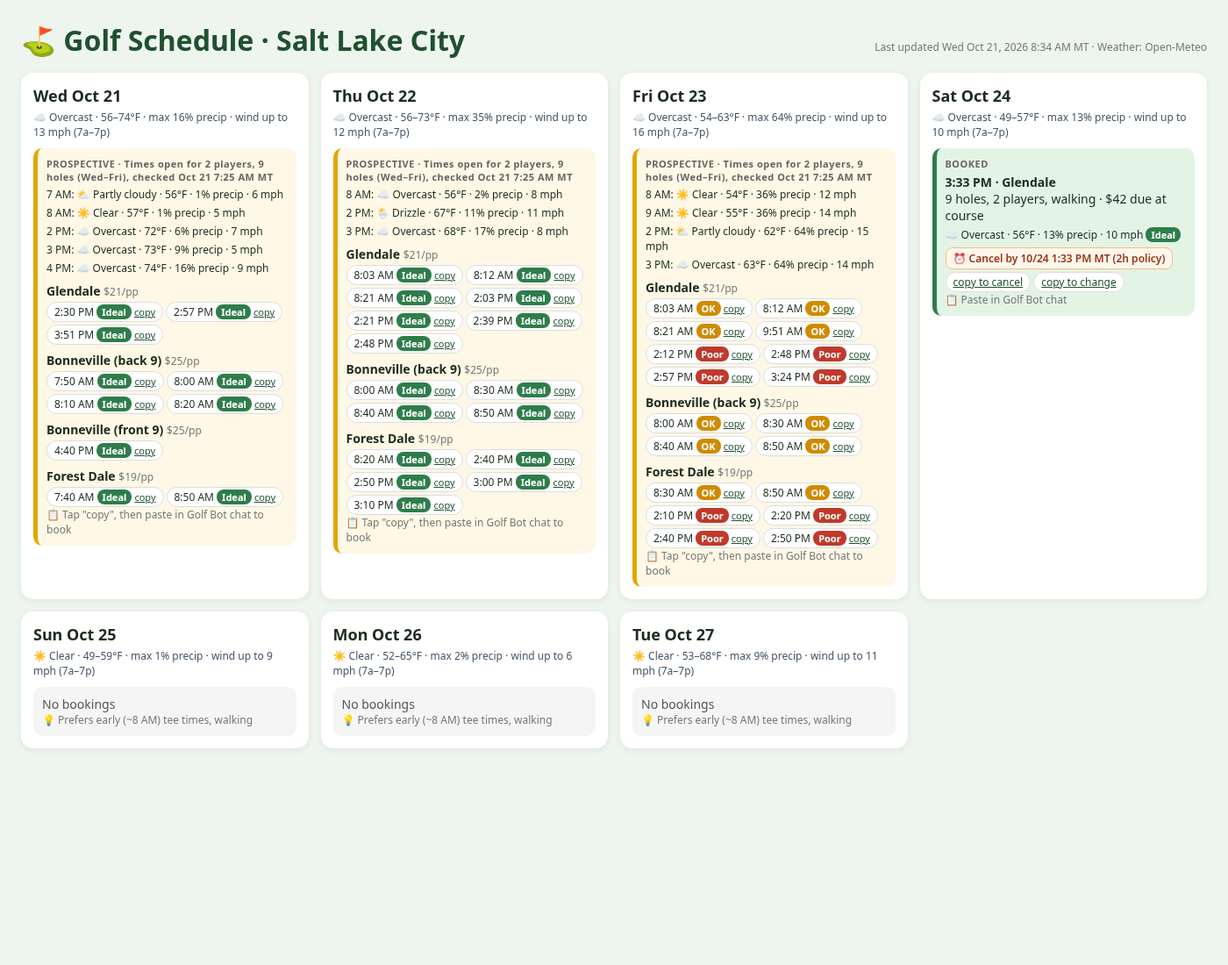
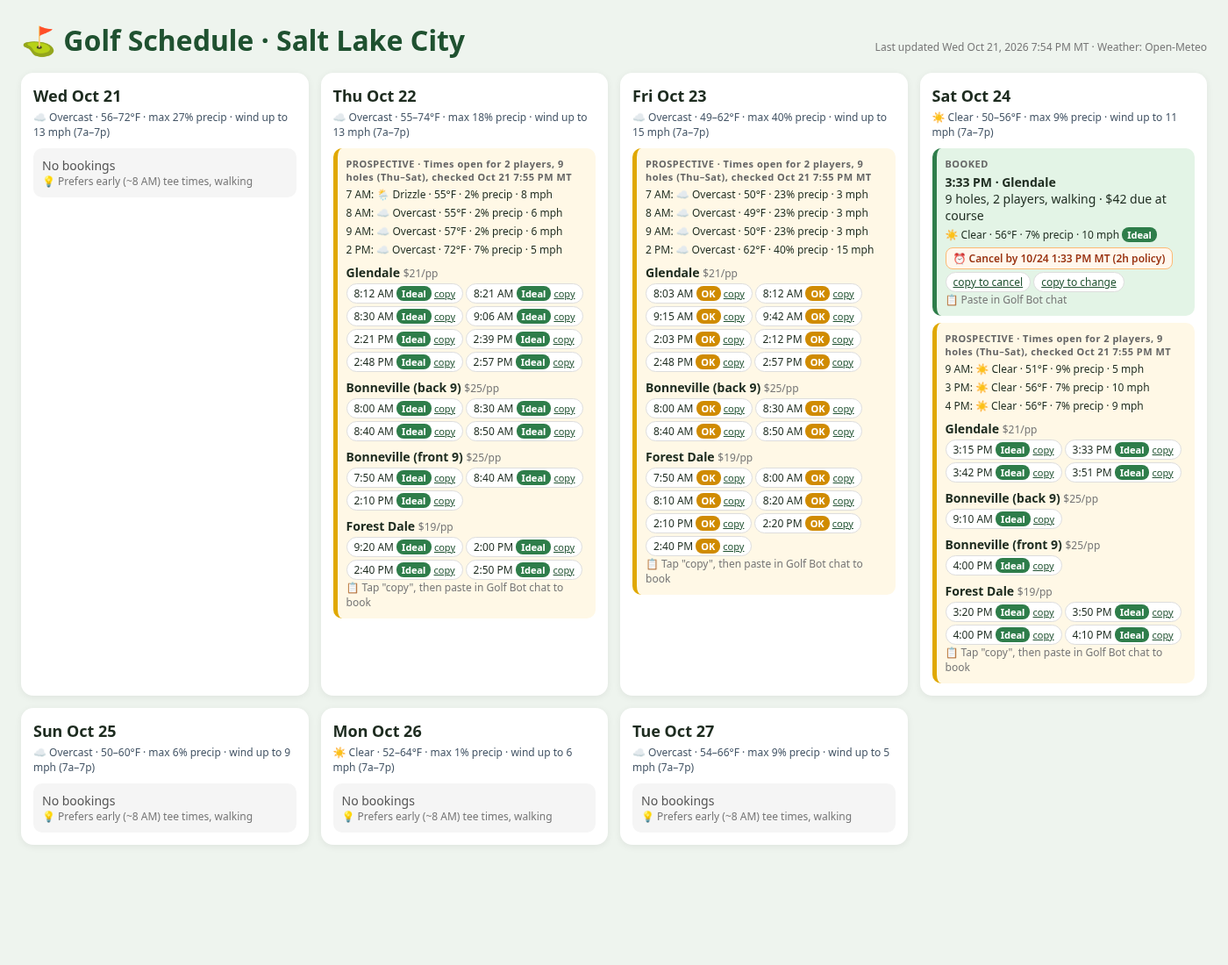
Update schedule 2026-10-21 19:54 MT

diff --git a/index.html b/index.html
@@ -9,5 +9,5 @@ h1{margin:0;color:#1f5130} .top{display:flex;justify-content:space-between;align
 .muted{color:#777;font-size:12px} .wx{font-size:12px;margin-top:4px} .prow{margin-top:8px}
 .cancelby{margin-top:6px;font-size:12px;font-weight:600;color:#9a3412;background:#fff7ed;border:1px solid #fdba74;border-radius:8px;padding:3px 8px;display:inline-block} .copy{font-size:11px;color:#1f5130} .chip{display:inline-block;background:#fff;border:1px solid #ddd;border-radius:14px;padding:2px 8px;margin:3px 3px 0 0;font-size:12px}
 .badge{border-radius:8px;padding:1px 6px;font-size:11px;font-weight:700;color:#fff} .ideal{background:#2e7d4a} .ok{background:#d08b00} .poor{background:#c0392b} .na{background:#888}
-</style></head><body><div class="top"><h1>⛳ Golf Schedule · Salt Lake City</h1><div class="muted">Last updated Wed Oct 21, 2026 8:34 AM MT · Weather: Open-Meteo</div></div>
-<div class="grid"><section class="day"><h2>Wed Oct 21</h2><div class="sum">☁ Overcast · 56–74°F · max 16% precip · wind up to 13 mph (7a–7p)</div><div class="slot prospect"><div class="tag">PROSPECTIVE · Times open for 2 players, 9 holes (Wed–Fri), checked Oct 21 7:25 AM MT</div><div class="wx">7 AM: ⛅ Partly cloudy · 56°F · 1% precip · 6 mph</div><div class="wx">8 AM: ☀ Clear · 57°F · 1% precip · 5 mph</div><div class="wx">2 PM: ☁ Overcast · 72°F · 6% precip · 7 mph</div><div class="wx">3 PM: ☁ Overcast · 73°F · 9% precip · 5 mph</div><div class="wx">4 PM: ☁ Overcast · 74°F · 16% precip · 9 mph</div><div class="prow"><b>Glendale</b> <span class="muted">$21/pp</span><div><span class="chip">2:30 PM <span class="badge ideal" title="☁ Overcast · 72°F · 6% precip · 7 mph">Ideal</span> <a href="#" class="copy" data-msg="Book Glendale Wed Oct 21 2:30 PM" onclick="navigator.clipboard.writeText(this.dataset.msg);this.textContent='copied!';return false">copy</a></span><span class="chip">2:57 PM <span class="badge ideal" title="☁ Overcast · 72°F · 6% precip · 7 mph">Ideal</span> <a href="#" class="copy" data-msg="Book Glendale Wed Oct 21 2:57 PM" onclick="navigator.clipboard.writeText(this.dataset.msg);this.textContent='copied!';return false">copy</a></span><span class="chip">3:51 PM <span class="badge ideal" title="☁ Overcast · 73°F · 9% precip · 5 mph">Ideal</span> <a href="#" class="copy" data-msg="Book Glendale Wed Oct 21 3:51 PM" onclick="navigator.clipboard.writeText(this.dataset.msg);this.textContent='copied!';return false">copy</a></span></div></div><div class="prow"><b>Bonneville (back 9)</b> <span class="muted">$25/pp</span><div><span class="chip">7:50 AM <span class="badge ideal" title="⛅ Partly cloudy · 56°F · 1% precip · 6 mph">Ideal</span> <a href="#" class="copy" data-msg="Book Bonneville (back 9) Wed Oct 21 7:50 AM" onclick="navigator.clipboard.writeText(this.dataset.msg);this.textContent='copied!';return false">copy</a></span><span class="chip">8:00 AM <span class="badge ideal" title="☀ Clear · 57°F · 1% precip · 5 mph">Ideal</span> <a href="#" class="copy" data-msg="Book Bonneville (back 9) Wed Oct 21 8:00 AM" onclick="navigator.clipboard.writeText(this.dataset.msg);this.textContent='copied!';return false">copy</a></span><span class="chip">8:10 AM <span class="badge ideal" title="☀ Clear · 57°F · 1% precip · 5 mph">Ideal</span> <a href="#" class="copy" data-msg="Book Bonneville (back 9) Wed Oct 21 8:10 AM" onclick="navigator.clipboard.writeText(this.dataset.msg);this.textContent='copied!';return false">copy</a></span><span class="chip">8:20 AM <span class="badge ideal" title="☀ Clear · 57°F · 1% precip · 5 mph">Ideal</span> <a href="#" class="copy" data-msg="Book Bonneville (back 9) Wed Oct 21 8:20 AM" onclick="navigator.clipboard.writeText(this.dataset.msg);this.textContent='copied!';return false">copy</a></span></div></div><div class="prow"><b>Bonneville (front 9)</b> <span class="muted">$25/pp</span><div><span class="chip">4:40 PM <span class="badge ideal" title="☁ Overcast · 74°F · 16% precip · 9 mph">Ideal</span> <a href="#" class="copy" data-msg="Book Bonneville (front 9) Wed Oct 21 4:40 PM" onclick="navigator.clipboard.writeText(this.dataset.msg);this.textContent='copied!';return false">copy</a></span></div></div><div class="prow"><b>Forest Dale</b> <span class="muted">$19/pp</span><div><span class="chip">7:40 AM <span class="badge ideal" title="⛅ Partly cloudy · 56°F · 1% precip · 6 mph">Ideal</span> <a href="#" class="copy" data-msg="Book Forest Dale Wed Oct 21 7:40 AM" onclick="navigator.clipboard.writeText(this.dataset.msg);this.textContent='copied!';return false">copy</a></span><span class="chip">8:50 AM <span class="badge ideal" title="☀ Clear · 57°F · 1% precip · 5 mph">Ideal</span> <a href="#" class="copy" data-msg="Book Forest Dale Wed Oct 21 8:50 AM" onclick="navigator.clipboard.writeText(this.dataset.msg);this.textContent='copied!';return false">copy</a></span></div></div><div class="muted">📋 Tap "copy", then paste in Golf Bot chat to book</div></div></section><section class="day"><h2>Thu Oct 22</h2><div class="sum">☁ Overcast · 56–73°F · max 35% precip · wind up to 12 mph (7a–7p)</div><div class="slot prospect"><div class="tag">PROSPECTIVE · Times open for 2 players, 9 holes (Wed–Fri), checked Oct 21 7:25 AM MT</div><div class="wx">8 AM: ☁ Overcast · 56°F · 2% precip · 8 mph</div><div class="wx">2 PM: 🌦 Drizzle · 67°F · 11% precip · 11 mph</div><div class="wx">3 PM: ☁ Overcast · 68°F · 17% precip · 8 mph</div><div class="prow"><b>Glendale</b> <span class="muted">$21/pp</span><div><span class="chip">8:03 AM <span class="badge ideal" title="☁ Overcast · 56°F · 2% precip · 8 mph">Ideal</span> <a href="#" class="copy" data-msg="Book Glendale Thu Oct 22 8:03 AM" onclick="navigator.clipboard.writeText(this.dataset.msg);this.textContent='copied!';return false">copy</a></span><span class="chip">8:12 AM <span class="badge ideal" title="☁ Overcast · 56°F · 2% precip · 8 mph">Ideal</span> <a href="#" class="copy" data-msg="Book Glendale Thu Oct 22 8:12 AM" onclick="navigator.clipboard.writeText(this.dataset.msg);this.textContent='copied!';return false">copy</a></span><span class="chip">8:21 AM <span class="badge ideal" title="☁ Overcast · 56°F · 2% precip · 8 mph">Ideal</span> <a href="#" class="copy" data-msg="Book Glendale Thu Oct 22 8:21 AM" onclick="navigator.clipboard.writeText(this.dataset.msg);this.textContent='copied!';return false">copy</a></span><span class="chip">2:03 PM <span class="badge ideal" title="🌦 Drizzle · 67°F · 11% precip · 11 mph">Ideal</span> <a href="#" class="copy" data-msg="Book Glendale Thu Oct 22 2:03 PM" onclick="navigator.clipboard.writeText(this.dataset.msg);this.textContent='copied!';return false">copy</a></span><span class="chip">2:21 PM <span class="badge ideal" title="🌦 Drizzle · 67°F · 11% precip · 11 mph">Ideal</span> <a href="#" class="copy" data-msg="Book Glendale Thu Oct 22 2:21 PM" onclick="navigator.clipboard.writeText(this.dataset.msg);this.textContent='copied!';return false">copy</a></span><span class="chip">2:39 PM <span class="badge ideal" title="🌦 Drizzle · 67°F · 11% precip · 11 mph">Ideal</span> <a href="#" class="copy" data-msg="Book Glendale Thu Oct 22 2:39 PM" onclick="navigator.clipboard.writeText(this.dataset.msg);this.textContent='copied!';return false">copy</a></span><span class="chip">2:48 PM <span class="badge ideal" title="🌦 Drizzle · 67°F · 11% precip · 11 mph">Ideal</span> <a href="#" class="copy" data-msg="Book Glendale Thu Oct 22 2:48 PM" onclick="navigator.clipboard.writeText(this.dataset.msg);this.textContent='copied!';return false">copy</a></span></div></div><div class="prow"><b>Bonneville (back 9)</b> <span class="muted">$25/pp</span><div><span class="chip">8:00 AM <span class="badge ideal" title="☁ Overcast · 56°F · 2% precip · 8 mph">Ideal</span> <a href="#" class="copy" data-msg="Book Bonneville (back 9) Thu Oct 22 8:00 AM" onclick="navigator.clipboard.writeText(this.dataset.msg);this.textContent='copied!';return false">copy</a></span><span class="chip">8:30 AM <span class="badge ideal" title="☁ Overcast · 56°F · 2% precip · 8 mph">Ideal</span> <a href="#" class="copy" data-msg="Book Bonneville (back 9) Thu Oct 22 8:30 AM" onclick="navigator.clipboard.writeText(this.dataset.msg);this.textContent='copied!';return false">copy</a></span><span class="chip">8:40 AM <span class="badge ideal" title="☁ Overcast · 56°F · 2% precip · 8 mph">Ideal</span> <a href="#" class="copy" data-msg="Book Bonneville (back 9) Thu Oct 22 8:40 AM" onclick="navigator.clipboard.writeText(this.dataset.msg);this.textContent='copied!';return false">copy</a></span><span class="chip">8:50 AM <span class="badge ideal" title="☁ Overcast · 56°F · 2% precip · 8 mph">Ideal</span> <a href="#" class="copy" data-msg="Book Bonneville (back 9) Thu Oct 22 8:50 AM" onclick="navigator.clipboard.writeText(this.dataset.msg);this.textContent='copied!';return false">copy</a></span></div></div><div class="prow"><b>Forest Dale</b> <span class="muted">$19/pp</span><div><span class="chip">8:20 AM <span class="badge ideal" title="☁ Overcast · 56°F · 2% precip · 8 mph">Ideal</span> <a href="#" class="copy" data-msg="Book Forest Dale Thu Oct 22 8:20 AM" onclick="navigator.clipboard.writeText(this.dataset.msg);this.textContent='copied!';return false">copy</a></span><span class="chip">2:40 PM <span class="badge ideal" title="🌦 Drizzle · 67°F · 11% precip · 11 mph">Ideal</span> <a href="#" class="copy" data-msg="Book Forest Dale Thu Oct 22 2:40 PM" onclick="navigator.clipboard.writeText(this.dataset.msg);this.textContent='copied!';return false">copy</a></span><span class="chip">2:50 PM <span class="badge ideal" title="🌦 Drizzle · 67°F · 11% precip · 11 mph">Ideal</span> <a href="#" class="copy" data-msg="Book Forest Dale Thu Oct 22 2:50 PM" onclick="navigator.clipboard.writeText(this.dataset.msg);this.textContent='copied!';return false">copy</a></span><span class="chip">3:00 PM <span class="badge ideal" title="☁ Overcast · 68°F · 17% precip · 8 mph">Ideal</span> <a href="#" class="copy" data-msg="Book Forest Dale Thu Oct 22 3:00 PM" onclick="navigator.clipboard.writeText(this.dataset.msg);this.textContent='copied!';return false">copy</a></span><span class="chip">3:10 PM <span class="badge ideal" title="☁ Overcast · 68°F · 17% precip · 8 mph">Ideal</span> <a href="#" class="copy" data-msg="Book Forest Dale Thu Oct 22 3:10 PM" onclick="navigator.clipboard.writeText(this.dataset.msg);this.textContent='copied!';return false">copy</a></span></div></div><div class="muted">📋 Tap "copy", then paste in Golf Bot chat to book</div></div></section><section class="day"><h2>Fri Oct 23</h2><div class="sum">☁ Overcast · 54–63°F · max 64% precip · wind up to 16 mph (7a–7p)</div><div class="slot prospect"><div class="tag">PROSPECTIVE · Times open for 2 players, 9 holes (Wed–Fri), checked Oct 21 7:25 AM MT</div><div class="wx">8 AM: ☀ Clear · 54°F · 36% precip · 12 mph</div><div class="wx">9 AM: ☀ Clear · 55°F · 36% precip · 14 mph</div><div class="wx">2 PM: ⛅ Partly cloudy · 62°F · 64% precip · 15 mph</div><div class="wx">3 PM: ☁ Overcast · 63°F · 64% precip · 14 mph</div><div class="prow"><b>Glendale</b> <span class="muted">$21/pp</span><div><span class="chip">8:03 AM <span class="badge ok" title="☀ Clear · 54°F · 36% precip · 12 mph">OK</span> <a href="#" class="copy" data-msg="Book Glendale Fri Oct 23 8:03 AM" onclick="navigator.clipboard.writeText(this.dataset.msg);this.textContent='copied!';return false">copy</a></span><span class="chip">8:12 AM <span class="badge ok" title="☀ Clear · 54°F · 36% precip · 12 mph">OK</span> <a href="#" class="copy" data-msg="Book Glendale Fri Oct 23 8:12 AM" onclick="navigator.clipboard.writeText(this.dataset.msg);this.textContent='copied!';return false">copy</a></span><span class="chip">8:21 AM <span class="badge ok" title="☀ Clear · 54°F · 36% precip · 12 mph">OK</span> <a href="#" class="copy" data-msg="Book Glendale Fri Oct 23 8:21 AM" onclick="navigator.clipboard.writeText(this.dataset.msg);this.textContent='copied!';return false">copy</a></span><span class="chip">9:51 AM <span class="badge ok" title="☀ Clear · 55°F · 36% precip · 14 mph">OK</span> <a href="#" class="copy" data-msg="Book Glendale Fri Oct 23 9:51 AM" onclick="navigator.clipboard.writeText(this.dataset.msg);this.textContent='copied!';return false">copy</a></span><span class="chip">2:12 PM <span class="badge poor" title="⛅ Partly cloudy · 62°F · 64% precip · 15 mph">Poor</span> <a href="#" class="copy" data-msg="Book Glendale Fri Oct 23 2:12 PM" onclick="navigator.clipboard.writeText(this.dataset.msg);this.textContent='copied!';return false">copy</a></span><span class="chip">2:48 PM <span class="badge poor" title="⛅ Partly cloudy · 62°F · 64% precip · 15 mph">Poor</span> <a href="#" class="copy" data-msg="Book Glendale Fri Oct 23 2:48 PM" onclick="navigator.clipboard.writeText(this.dataset.msg);this.textContent='copied!';return false">copy</a></span><span class="chip">2:57 PM <span class="badge poor" title="⛅ Partly cloudy · 62°F · 64% precip · 15 mph">Poor</span> <a href="#" class="copy" data-msg="Book Glendale Fri Oct 23 2:57 PM" onclick="navigator.clipboard.writeText(this.dataset.msg);this.textContent='copied!';return false">copy</a></span><span class="chip">3:24 PM <span class="badge poor" title="☁ Overcast · 63°F · 64% precip · 14 mph">Poor</span> <a href="#" class="copy" data-msg="Book Glendale Fri Oct 23 3:24 PM" onclick="navigator.clipboard.writeText(this.dataset.msg);this.textContent='copied!';return false">copy</a></span></div></div><div class="prow"><b>Bonneville (back 9)</b> <span class="muted">$25/pp</span><div><span class="chip">8:00 AM <span class="badge ok" title="☀ Clear · 54°F · 36% precip · 12 mph">OK</span> <a href="#" class="copy" data-msg="Book Bonneville (back 9) Fri Oct 23 8:00 AM" onclick="navigator.clipboard.writeText(this.dataset.msg);this.textContent='copied!';return false">copy</a></span><span class="chip">8:30 AM <span class="badge ok" title="☀ Clear · 54°F · 36% precip · 12 mph">OK</span> <a href="#" class="copy" data-msg="Book Bonneville (back 9) Fri Oct 23 8:30 AM" onclick="navigator.clipboard.writeText(this.dataset.msg);this.textContent='copied!';return false">copy</a></span><span class="chip">8:40 AM <span class="badge ok" title="☀ Clear · 54°F · 36% precip · 12 mph">OK</span> <a href="#" class="copy" data-msg="Book Bonneville (back 9) Fri Oct 23 8:40 AM" onclick="navigator.clipboard.writeText(this.dataset.msg);this.textContent='copied!';return false">copy</a></span><span class="chip">8:50 AM <span class="badge ok" title="☀ Clear · 54°F · 36% precip · 12 mph">OK</span> <a href="#" class="copy" data-msg="Book Bonneville (back 9) Fri Oct 23 8:50 AM" onclick="navigator.clipboard.writeText(this.dataset.msg);this.textContent='copied!';return false">copy</a></span></div></div><div class="prow"><b>Forest Dale</b> <span class="muted">$19/pp</span><div><span class="chip">8:30 AM <span class="badge ok" title="☀ Clear · 54°F · 36% precip · 12 mph">OK</span> <a href="#" class="copy" data-msg="Book Forest Dale Fri Oct 23 8:30 AM" onclick="navigator.clipboard.writeText(this.dataset.msg);this.textContent='copied!';return false">copy</a></span><span class="chip">8:50 AM <span class="badge ok" title="☀ Clear · 54°F · 36% precip · 12 mph">OK</span> <a href="#" class="copy" data-msg="Book Forest Dale Fri Oct 23 8:50 AM" onclick="navigator.clipboard.writeText(this.dataset.msg);this.textContent='copied!';return false">copy</a></span><span class="chip">2:10 PM <span class="badge poor" title="⛅ Partly cloudy · 62°F · 64% precip · 15 mph">Poor</span> <a href="#" class="copy" data-msg="Book Forest Dale Fri Oct 23 2:10 PM" onclick="navigator.clipboard.writeText(this.dataset.msg);this.textContent='copied!';return false">copy</a></span><span class="chip">2:20 PM <span class="badge poor" title="⛅ Partly cloudy · 62°F · 64% precip · 15 mph">Poor</span> <a href="#" class="copy" data-msg="Book Forest Dale Fri Oct 23 2:20 PM" onclick="navigator.clipboard.writeText(this.dataset.msg);this.textContent='copied!';return false">copy</a></span><span class="chip">2:40 PM <span class="badge poor" title="⛅ Partly cloudy · 62°F · 64% precip · 15 mph">Poor</span> <a href="#" class="copy" data-msg="Book Forest Dale Fri Oct 23 2:40 PM" onclick="navigator.clipboard.writeText(this.dataset.msg);this.textContent='copied!';return false">copy</a></span><span class="chip">2:50 PM <span class="badge poor" title="⛅ Partly cloudy · 62°F · 64% precip · 15 mph">Poor</span> <a href="#" class="copy" data-msg="Book Forest Dale Fri Oct 23 2:50 PM" onclick="navigator.clipboard.writeText(this.dataset.msg);this.textContent='copied!';return false">copy</a></span></div></div><div class="muted">📋 Tap "copy", then paste in Golf Bot chat to book</div></div></section><section class="day"><h2>Sat Oct 24</h2><div class="sum">☁ Overcast · 49–57°F · max 13% precip · wind up to 10 mph (7a–7p)</div><div class="slot booked"><div class="tag">BOOKED</div><b>3:33 PM · Glendale</b><div>9 holes, 2 players, walking · $42 due at course</div><div class="wx">☁ Overcast · 56°F · 13% precip · 10 mph <span class="badge ideal">Ideal</span></div><div class="cancelby">⏰ Cancel by 10/24 1:33 PM MT (2h policy)</div><a href="#" class="copy chip" data-msg="Cancel my Glendale tee time Sat Oct 24 3:33 PM" onclick="navigator.clipboard.writeText(this.dataset.msg);this.textContent='copied!';return false">copy to cancel</a><a href="#" class="copy chip" data-msg="Change my Glendale tee time Sat Oct 24 3:33 PM" onclick="navigator.clipboard.writeText(this.dataset.msg);this.textContent='copied!';return false">copy to change</a><div class="muted">📋 Paste in Golf Bot chat</div></div></section><section class="day"><h2>Sun Oct 25</h2><div class="sum">☀ Clear · 49–59°F · max 1% precip · wind up to 9 mph (7a–7p)</div><div class="slot empty">No bookings<div class="muted">💡 Prefers early (~8 AM) tee times, walking</div></div></section><section class="day"><h2>Mon Oct 26</h2><div class="sum">☀ Clear · 52–65°F · max 2% precip · wind up to 6 mph (7a–7p)</div><div class="slot empty">No bookings<div class="muted">💡 Prefers early (~8 AM) tee times, walking</div></div></section><section class="day"><h2>Tue Oct 27</h2><div class="sum">☀ Clear · 53–68°F · max 9% precip · wind up to 11 mph (7a–7p)</div><div class="slot empty">No bookings<div class="muted">💡 Prefers early (~8 AM) tee times, walking</div></div></section></div></body></html>
+</style></head><body><div class="top"><h1>⛳ Golf Schedule · Salt Lake City</h1><div class="muted">Last updated Wed Oct 21, 2026 7:54 PM MT · Weather: Open-Meteo</div></div>
+<div class="grid"><section class="day"><h2>Wed Oct 21</h2><div class="sum">☁ Overcast · 56–72°F · max 27% precip · wind up to 13 mph (7a–7p)</div><div class="slot empty">No bookings<div class="muted">💡 Prefers early (~8 AM) tee times, walking</div></div></section><section class="day"><h2>Thu Oct 22</h2><div class="sum">☁ Overcast · 55–74°F · max 18% precip · wind up to 13 mph (7a–7p)</div><div class="slot prospect"><div class="tag">PROSPECTIVE · Times open for 2 players, 9 holes (Thu–Sat), checked Oct 21 7:55 PM MT</div><div class="wx">7 AM: 🌦 Drizzle · 55°F · 2% precip · 8 mph</div><div class="wx">8 AM: ☁ Overcast · 55°F · 2% precip · 6 mph</div><div class="wx">9 AM: ☁ Overcast · 57°F · 2% precip · 6 mph</div><div class="wx">2 PM: ☁ Overcast · 72°F · 7% precip · 5 mph</div><div class="prow"><b>Glendale</b> <span class="muted">$21/pp</span><div><span class="chip">8:12 AM <span class="badge ideal" title="☁ Overcast · 55°F · 2% precip · 6 mph">Ideal</span> <a href="#" class="copy" data-msg="Book Glendale Thu Oct 22 8:12 AM" onclick="navigator.clipboard.writeText(this.dataset.msg);this.textContent='copied!';return false">copy</a></span><span class="chip">8:21 AM <span class="badge ideal" title="☁ Overcast · 55°F · 2% precip · 6 mph">Ideal</span> <a href="#" class="copy" data-msg="Book Glendale Thu Oct 22 8:21 AM" onclick="navigator.clipboard.writeText(this.dataset.msg);this.textContent='copied!';return false">copy</a></span><span class="chip">8:30 AM <span class="badge ideal" title="☁ Overcast · 55°F · 2% precip · 6 mph">Ideal</span> <a href="#" class="copy" data-msg="Book Glendale Thu Oct 22 8:30 AM" onclick="navigator.clipboard.writeText(this.dataset.msg);this.textContent='copied!';return false">copy</a></span><span class="chip">9:06 AM <span class="badge ideal" title="☁ Overcast · 57°F · 2% precip · 6 mph">Ideal</span> <a href="#" class="copy" data-msg="Book Glendale Thu Oct 22 9:06 AM" onclick="navigator.clipboard.writeText(this.dataset.msg);this.textContent='copied!';return false">copy</a></span><span class="chip">2:21 PM <span class="badge ideal" title="☁ Overcast · 72°F · 7% precip · 5 mph">Ideal</span> <a href="#" class="copy" data-msg="Book Glendale Thu Oct 22 2:21 PM" onclick="navigator.clipboard.writeText(this.dataset.msg);this.textContent='copied!';return false">copy</a></span><span class="chip">2:39 PM <span class="badge ideal" title="☁ Overcast · 72°F · 7% precip · 5 mph">Ideal</span> <a href="#" class="copy" data-msg="Book Glendale Thu Oct 22 2:39 PM" onclick="navigator.clipboard.writeText(this.dataset.msg);this.textContent='copied!';return false">copy</a></span><span class="chip">2:48 PM <span class="badge ideal" title="☁ Overcast · 72°F · 7% precip · 5 mph">Ideal</span> <a href="#" class="copy" data-msg="Book Glendale Thu Oct 22 2:48 PM" onclick="navigator.clipboard.writeText(this.dataset.msg);this.textContent='copied!';return false">copy</a></span><span class="chip">2:57 PM <span class="badge ideal" title="☁ Overcast · 72°F · 7% precip · 5 mph">Ideal</span> <a href="#" class="copy" data-msg="Book Glendale Thu Oct 22 2:57 PM" onclick="navigator.clipboard.writeText(this.dataset.msg);this.textContent='copied!';return false">copy</a></span></div></div><div class="prow"><b>Bonneville (back 9)</b> <span class="muted">$25/pp</span><div><span class="chip">8:00 AM <span class="badge ideal" title="☁ Overcast · 55°F · 2% precip · 6 mph">Ideal</span> <a href="#" class="copy" data-msg="Book Bonneville (back 9) Thu Oct 22 8:00 AM" onclick="navigator.clipboard.writeText(this.dataset.msg);this.textContent='copied!';return false">copy</a></span><span class="chip">8:30 AM <span class="badge ideal" title="☁ Overcast · 55°F · 2% precip · 6 mph">Ideal</span> <a href="#" class="copy" data-msg="Book Bonneville (back 9) Thu Oct 22 8:30 AM" onclick="navigator.clipboard.writeText(this.dataset.msg);this.textContent='copied!';return false">copy</a></span><span class="chip">8:40 AM <span class="badge ideal" title="☁ Overcast · 55°F · 2% precip · 6 mph">Ideal</span> <a href="#" class="copy" data-msg="Book Bonneville (back 9) Thu Oct 22 8:40 AM" onclick="navigator.clipboard.writeText(this.dataset.msg);this.textContent='copied!';return false">copy</a></span><span class="chip">8:50 AM <span class="badge ideal" title="☁ Overcast · 55°F · 2% precip · 6 mph">Ideal</span> <a href="#" class="copy" data-msg="Book Bonneville (back 9) Thu Oct 22 8:50 AM" onclick="navigator.clipboard.writeText(this.dataset.msg);this.textContent='copied!';return false">copy</a></span></div></div><div class="prow"><b>Bonneville (front 9)</b> <span class="muted">$25/pp</span><div><span class="chip">7:50 AM <span class="badge ideal" title="🌦 Drizzle · 55°F · 2% precip · 8 mph">Ideal</span> <a href="#" class="copy" data-msg="Book Bonneville (front 9) Thu Oct 22 7:50 AM" onclick="navigator.clipboard.writeText(this.dataset.msg);this.textContent='copied!';return false">copy</a></span><span class="chip">8:40 AM <span class="badge ideal" title="☁ Overcast · 55°F · 2% precip · 6 mph">Ideal</span> <a href="#" class="copy" data-msg="Book Bonneville (front 9) Thu Oct 22 8:40 AM" onclick="navigator.clipboard.writeText(this.dataset.msg);this.textContent='copied!';return false">copy</a></span><span class="chip">2:10 PM <span class="badge ideal" title="☁ Overcast · 72°F · 7% precip · 5 mph">Ideal</span> <a href="#" class="copy" data-msg="Book Bonneville (front 9) Thu Oct 22 2:10 PM" onclick="navigator.clipboard.writeText(this.dataset.msg);this.textContent='copied!';return false">copy</a></span></div></div><div class="prow"><b>Forest Dale</b> <span class="muted">$19/pp</span><div><span class="chip">9:20 AM <span class="badge ideal" title="☁ Overcast · 57°F · 2% precip · 6 mph">Ideal</span> <a href="#" class="copy" data-msg="Book Forest Dale Thu Oct 22 9:20 AM" onclick="navigator.clipboard.writeText(this.dataset.msg);this.textContent='copied!';return false">copy</a></span><span class="chip">2:00 PM <span class="badge ideal" title="☁ Overcast · 72°F · 7% precip · 5 mph">Ideal</span> <a href="#" class="copy" data-msg="Book Forest Dale Thu Oct 22 2:00 PM" onclick="navigator.clipboard.writeText(this.dataset.msg);this.textContent='copied!';return false">copy</a></span><span class="chip">2:40 PM <span class="badge ideal" title="☁ Overcast · 72°F · 7% precip · 5 mph">Ideal</span> <a href="#" class="copy" data-msg="Book Forest Dale Thu Oct 22 2:40 PM" onclick="navigator.clipboard.writeText(this.dataset.msg);this.textContent='copied!';return false">copy</a></span><span class="chip">2:50 PM <span class="badge ideal" title="☁ Overcast · 72°F · 7% precip · 5 mph">Ideal</span> <a href="#" class="copy" data-msg="Book Forest Dale Thu Oct 22 2:50 PM" onclick="navigator.clipboard.writeText(this.dataset.msg);this.textContent='copied!';return false">copy</a></span></div></div><div class="muted">📋 Tap "copy", then paste in Golf Bot chat to book</div></div></section><section class="day"><h2>Fri Oct 23</h2><div class="sum">☁ Overcast · 49–62°F · max 40% precip · wind up to 15 mph (7a–7p)</div><div class="slot prospect"><div class="tag">PROSPECTIVE · Times open for 2 players, 9 holes (Thu–Sat), checked Oct 21 7:55 PM MT</div><div class="wx">7 AM: ☁ Overcast · 50°F · 23% precip · 3 mph</div><div class="wx">8 AM: ☁ Overcast · 49°F · 23% precip · 3 mph</div><div class="wx">9 AM: ☁ Overcast · 50°F · 23% precip · 3 mph</div><div class="wx">2 PM: ☁ Overcast · 62°F · 40% precip · 15 mph</div><div class="prow"><b>Glendale</b> <span class="muted">$21/pp</span><div><span class="chip">8:03 AM <span class="badge ok" title="☁ Overcast · 49°F · 23% precip · 3 mph">OK</span> <a href="#" class="copy" data-msg="Book Glendale Fri Oct 23 8:03 AM" onclick="navigator.clipboard.writeText(this.dataset.msg);this.textContent='copied!';return false">copy</a></span><span class="chip">8:12 AM <span class="badge ok" title="☁ Overcast · 49°F · 23% precip · 3 mph">OK</span> <a href="#" class="copy" data-msg="Book Glendale Fri Oct 23 8:12 AM" onclick="navigator.clipboard.writeText(this.dataset.msg);this.textContent='copied!';return false">copy</a></span><span class="chip">9:15 AM <span class="badge ok" title="☁ Overcast · 50°F · 23% precip · 3 mph">OK</span> <a href="#" class="copy" data-msg="Book Glendale Fri Oct 23 9:15 AM" onclick="navigator.clipboard.writeText(this.dataset.msg);this.textContent='copied!';return false">copy</a></span><span class="chip">9:42 AM <span class="badge ok" title="☁ Overcast · 50°F · 23% precip · 3 mph">OK</span> <a href="#" class="copy" data-msg="Book Glendale Fri Oct 23 9:42 AM" onclick="navigator.clipboard.writeText(this.dataset.msg);this.textContent='copied!';return false">copy</a></span><span class="chip">2:03 PM <span class="badge ok" title="☁ Overcast · 62°F · 40% precip · 15 mph">OK</span> <a href="#" class="copy" data-msg="Book Glendale Fri Oct 23 2:03 PM" onclick="navigator.clipboard.writeText(this.dataset.msg);this.textContent='copied!';return false">copy</a></span><span class="chip">2:12 PM <span class="badge ok" title="☁ Overcast · 62°F · 40% precip · 15 mph">OK</span> <a href="#" class="copy" data-msg="Book Glendale Fri Oct 23 2:12 PM" onclick="navigator.clipboard.writeText(this.dataset.msg);this.textContent='copied!';return false">copy</a></span><span class="chip">2:48 PM <span class="badge ok" title="☁ Overcast · 62°F · 40% precip · 15 mph">OK</span> <a href="#" class="copy" data-msg="Book Glendale Fri Oct 23 2:48 PM" onclick="navigator.clipboard.writeText(this.dataset.msg);this.textContent='copied!';return false">copy</a></span><span class="chip">2:57 PM <span class="badge ok" title="☁ Overcast · 62°F · 40% precip · 15 mph">OK</span> <a href="#" class="copy" data-msg="Book Glendale Fri Oct 23 2:57 PM" onclick="navigator.clipboard.writeText(this.dataset.msg);this.textContent='copied!';return false">copy</a></span></div></div><div class="prow"><b>Bonneville (back 9)</b> <span class="muted">$25/pp</span><div><span class="chip">8:00 AM <span class="badge ok" title="☁ Overcast · 49°F · 23% precip · 3 mph">OK</span> <a href="#" class="copy" data-msg="Book Bonneville (back 9) Fri Oct 23 8:00 AM" onclick="navigator.clipboard.writeText(this.dataset.msg);this.textContent='copied!';return false">copy</a></span><span class="chip">8:30 AM <span class="badge ok" title="☁ Overcast · 49°F · 23% precip · 3 mph">OK</span> <a href="#" class="copy" data-msg="Book Bonneville (back 9) Fri Oct 23 8:30 AM" onclick="navigator.clipboard.writeText(this.dataset.msg);this.textContent='copied!';return false">copy</a></span><span class="chip">8:40 AM <span class="badge ok" title="☁ Overcast · 49°F · 23% precip · 3 mph">OK</span> <a href="#" class="copy" data-msg="Book Bonneville (back 9) Fri Oct 23 8:40 AM" onclick="navigator.clipboard.writeText(this.dataset.msg);this.textContent='copied!';return false">copy</a></span><span class="chip">8:50 AM <span class="badge ok" title="☁ Overcast · 49°F · 23% precip · 3 mph">OK</span> <a href="#" class="copy" data-msg="Book Bonneville (back 9) Fri Oct 23 8:50 AM" onclick="navigator.clipboard.writeText(this.dataset.msg);this.textContent='copied!';return false">copy</a></span></div></div><div class="prow"><b>Forest Dale</b> <span class="muted">$19/pp</span><div><span class="chip">7:50 AM <span class="badge ok" title="☁ Overcast · 50°F · 23% precip · 3 mph">OK</span> <a href="#" class="copy" data-msg="Book Forest Dale Fri Oct 23 7:50 AM" onclick="navigator.clipboard.writeText(this.dataset.msg);this.textContent='copied!';return false">copy</a></span><span class="chip">8:00 AM <span class="badge ok" title="☁ Overcast · 49°F · 23% precip · 3 mph">OK</span> <a href="#" class="copy" data-msg="Book Forest Dale Fri Oct 23 8:00 AM" onclick="navigator.clipboard.writeText(this.dataset.msg);this.textContent='copied!';return false">copy</a></span><span class="chip">8:10 AM <span class="badge ok" title="☁ Overcast · 49°F · 23% precip · 3 mph">OK</span> <a href="#" class="copy" data-msg="Book Forest Dale Fri Oct 23 8:10 AM" onclick="navigator.clipboard.writeText(this.dataset.msg);this.textContent='copied!';return false">copy</a></span><span class="chip">8:20 AM <span class="badge ok" title="☁ Overcast · 49°F · 23% precip · 3 mph">OK</span> <a href="#" class="copy" data-msg="Book Forest Dale Fri Oct 23 8:20 AM" onclick="navigator.clipboard.writeText(this.dataset.msg);this.textContent='copied!';return false">copy</a></span><span class="chip">2:10 PM <span class="badge ok" title="☁ Overcast · 62°F · 40% precip · 15 mph">OK</span> <a href="#" class="copy" data-msg="Book Forest Dale Fri Oct 23 2:10 PM" onclick="navigator.clipboard.writeText(this.dataset.msg);this.textContent='copied!';return false">copy</a></span><span class="chip">2:20 PM <span class="badge ok" title="☁ Overcast · 62°F · 40% precip · 15 mph">OK</span> <a href="#" class="copy" data-msg="Book Forest Dale Fri Oct 23 2:20 PM" onclick="navigator.clipboard.writeText(this.dataset.msg);this.textContent='copied!';return false">copy</a></span><span class="chip">2:40 PM <span class="badge ok" title="☁ Overcast · 62°F · 40% precip · 15 mph">OK</span> <a href="#" class="copy" data-msg="Book Forest Dale Fri Oct 23 2:40 PM" onclick="navigator.clipboard.writeText(this.dataset.msg);this.textContent='copied!';return false">copy</a></span></div></div><div class="muted">📋 Tap "copy", then paste in Golf Bot chat to book</div></div></section><section class="day"><h2>Sat Oct 24</h2><div class="sum">☀ Clear · 50–56°F · max 9% precip · wind up to 11 mph (7a–7p)</div><div class="slot booked"><div class="tag">BOOKED</div><b>3:33 PM · Glendale</b><div>9 holes, 2 players, walking · $42 due at course</div><div class="wx">☀ Clear · 56°F · 7% precip · 10 mph <span class="badge ideal">Ideal</span></div><div class="cancelby">⏰ Cancel by 10/24 1:33 PM MT (2h policy)</div><a href="#" class="copy chip" data-msg="Cancel my Glendale tee time Sat Oct 24 3:33 PM" onclick="navigator.clipboard.writeText(this.dataset.msg);this.textContent='copied!';return false">copy to cancel</a><a href="#" class="copy chip" data-msg="Change my Glendale tee time Sat Oct 24 3:33 PM" onclick="navigator.clipboard.writeText(this.dataset.msg);this.textContent='copied!';return false">copy to change</a><div class="muted">📋 Paste in Golf Bot chat</div></div><div class="slot prospect"><div class="tag">PROSPECTIVE · Times open for 2 players, 9 holes (Thu–Sat), checked Oct 21 7:55 PM MT</div><div class="wx">9 AM: ☀ Clear · 51°F · 9% precip · 5 mph</div><div class="wx">3 PM: ☀ Clear · 56°F · 7% precip · 10 mph</div><div class="wx">4 PM: ☀ Clear · 56°F · 7% precip · 9 mph</div><div class="prow"><b>Glendale</b> <span class="muted">$21/pp</span><div><span class="chip">3:15 PM <span class="badge ideal" title="☀ Clear · 56°F · 7% precip · 10 mph">Ideal</span> <a href="#" class="copy" data-msg="Book Glendale Sat Oct 24 3:15 PM" onclick="navigator.clipboard.writeText(this.dataset.msg);this.textContent='copied!';return false">copy</a></span><span class="chip">3:33 PM <span class="badge ideal" title="☀ Clear · 56°F · 7% precip · 10 mph">Ideal</span> <a href="#" class="copy" data-msg="Book Glendale Sat Oct 24 3:33 PM" onclick="navigator.clipboard.writeText(this.dataset.msg);this.textContent='copied!';return false">copy</a></span><span class="chip">3:42 PM <span class="badge ideal" title="☀ Clear · 56°F · 7% precip · 10 mph">Ideal</span> <a href="#" class="copy" data-msg="Book Glendale Sat Oct 24 3:42 PM" onclick="navigator.clipboard.writeText(this.dataset.msg);this.textContent='copied!';return false">copy</a></span><span class="chip">3:51 PM <span class="badge ideal" title="☀ Clear · 56°F · 7% precip · 10 mph">Ideal</span> <a href="#" class="copy" data-msg="Book Glendale Sat Oct 24 3:51 PM" onclick="navigator.clipboard.writeText(this.dataset.msg);this.textContent='copied!';return false">copy</a></span></div></div><div class="prow"><b>Bonneville (back 9)</b> <span class="muted">$25/pp</span><div><span class="chip">9:10 AM <span class="badge ideal" title="☀ Clear · 51°F · 9% precip · 5 mph">Ideal</span> <a href="#" class="copy" data-msg="Book Bonneville (back 9) Sat Oct 24 9:10 AM" onclick="navigator.clipboard.writeText(this.dataset.msg);this.textContent='copied!';return false">copy</a></span></div></div><div class="prow"><b>Bonneville (front 9)</b> <span class="muted">$25/pp</span><div><span class="chip">4:00 PM <span class="badge ideal" title="☀ Clear · 56°F · 7% precip · 9 mph">Ideal</span> <a href="#" class="copy" data-msg="Book Bonneville (front 9) Sat Oct 24 4:00 PM" onclick="navigator.clipboard.writeText(this.dataset.msg);this.textContent='copied!';return false">copy</a></span></div></div><div class="prow"><b>Forest Dale</b> <span class="muted">$19/pp</span><div><span class="chip">3:20 PM <span class="badge ideal" title="☀ Clear · 56°F · 7% precip · 10 mph">Ideal</span> <a href="#" class="copy" data-msg="Book Forest Dale Sat Oct 24 3:20 PM" onclick="navigator.clipboard.writeText(this.dataset.msg);this.textContent='copied!';return false">copy</a></span><span class="chip">3:50 PM <span class="badge ideal" title="☀ Clear · 56°F · 7% precip · 10 mph">Ideal</span> <a href="#" class="copy" data-msg="Book Forest Dale Sat Oct 24 3:50 PM" onclick="navigator.clipboard.writeText(this.dataset.msg);this.textContent='copied!';return false">copy</a></span><span class="chip">4:00 PM <span class="badge ideal" title="☀ Clear · 56°F · 7% precip · 9 mph">Ideal</span> <a href="#" class="copy" data-msg="Book Forest Dale Sat Oct 24 4:00 PM" onclick="navigator.clipboard.writeText(this.dataset.msg);this.textContent='copied!';return false">copy</a></span><span class="chip">4:10 PM <span class="badge ideal" title="☀ Clear · 56°F · 7% precip · 9 mph">Ideal</span> <a href="#" class="copy" data-msg="Book Forest Dale Sat Oct 24 4:10 PM" onclick="navigator.clipboard.writeText(this.dataset.msg);this.textContent='copied!';return false">copy</a></span></div></div><div class="muted">📋 Tap "copy", then paste in Golf Bot chat to book</div></div></section><section class="day"><h2>Sun Oct 25</h2><div class="sum">☁ Overcast · 50–60°F · max 6% precip · wind up to 9 mph (7a–7p)</div><div class="slot empty">No bookings<div class="muted">💡 Prefers early (~8 AM) tee times, walking</div></div></section><section class="day"><h2>Mon Oct 26</h2><div class="sum">☀ Clear · 52–64°F · max 1% precip · wind up to 6 mph (7a–7p)</div><div class="slot empty">No bookings<div class="muted">💡 Prefers early (~8 AM) tee times, walking</div></div></section><section class="day"><h2>Tue Oct 27</h2><div class="sum">☁ Overcast · 54–66°F · max 9% precip · wind up to 5 mph (7a–7p)</div><div class="slot empty">No bookings<div class="muted">💡 Prefers early (~8 AM) tee times, walking</div></div></section></div></body></html>
